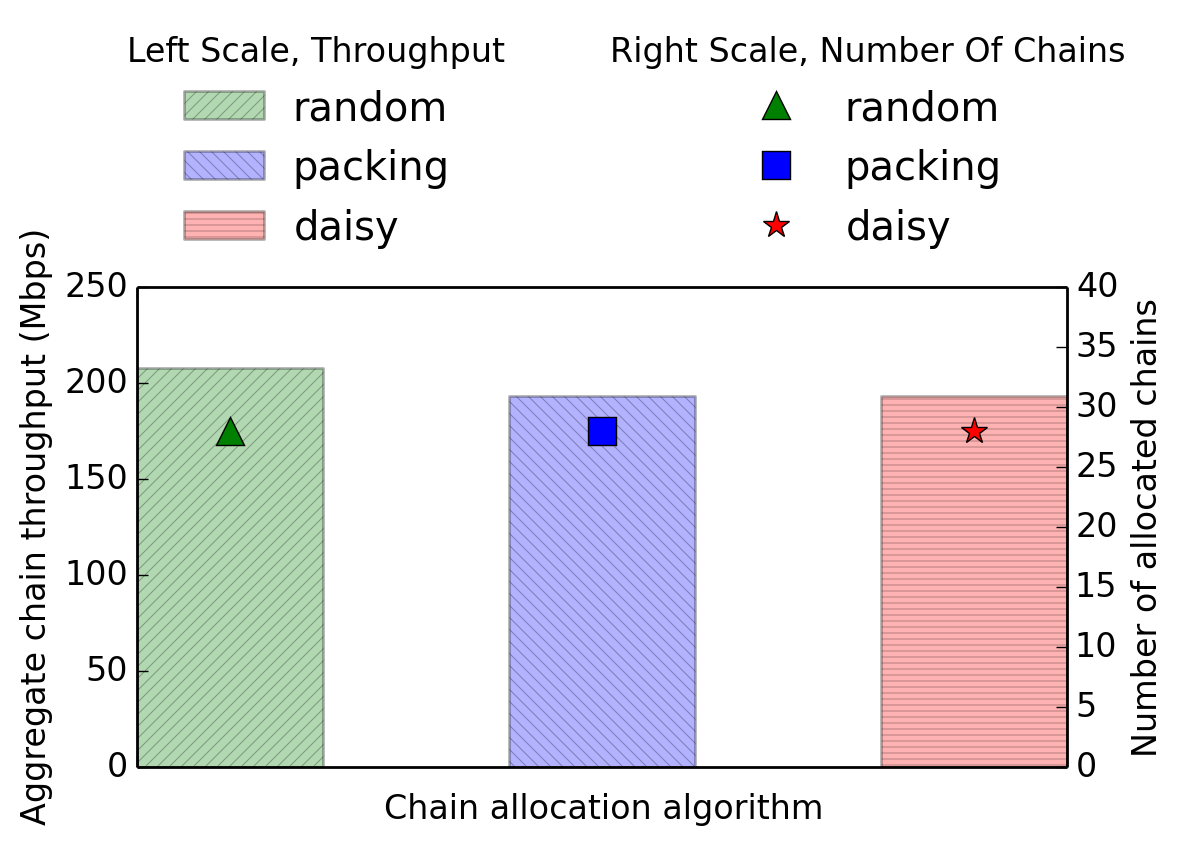
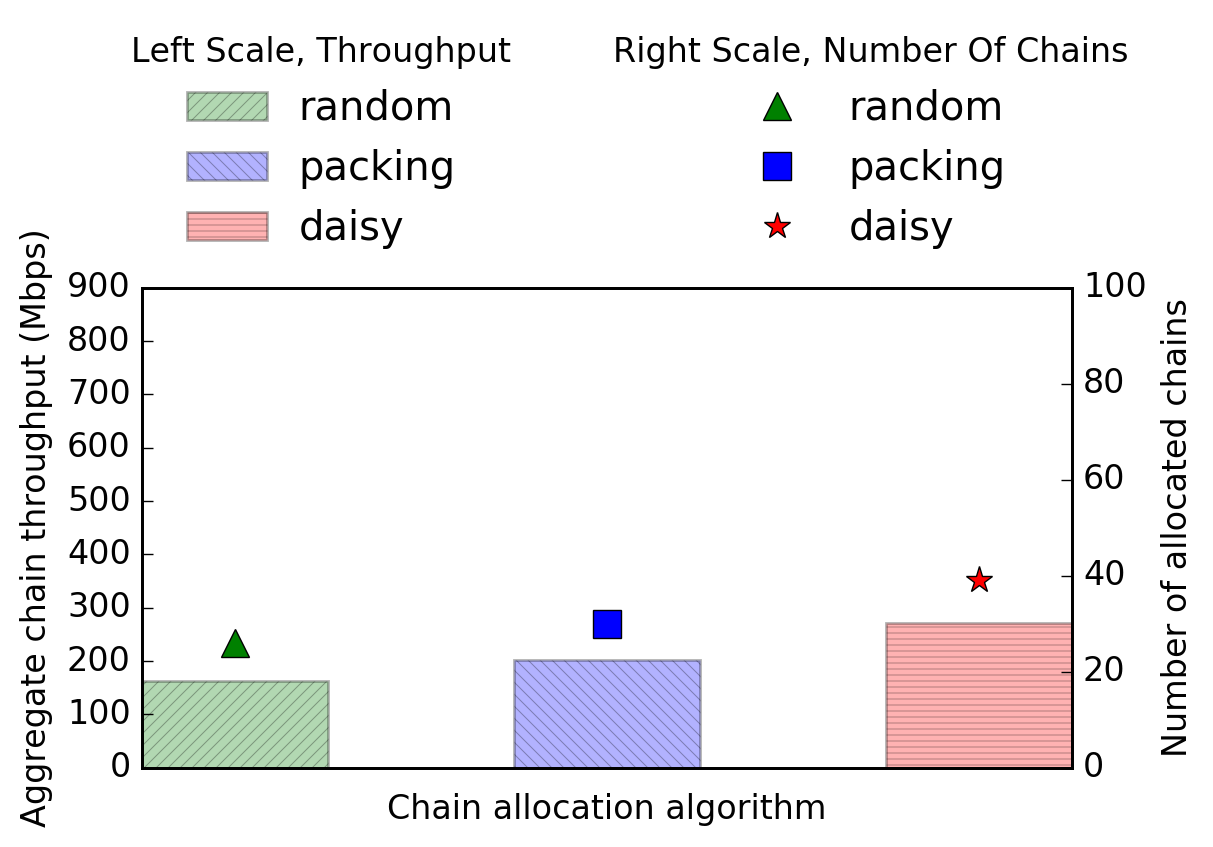
Update plots.

diff --git a/scenarios/experiments/plot.py b/scenarios/experiments/plot.py
@@ -53,28 +53,27 @@ def extract_dstat(fname, pos, omit_sec, duration):
     return bw
 
 
-
 def plot_upgrade():
     # amount of seconds to skip data collection, and duration of the experiment
     omit_sec, duration = 3, 60
     # for client we monitor TX traffic, which is the value on the 2nd position
     # of the CSV file.
     client_bw = extract_dstat('./results/upgrade-from-client.csv', 2, omit_sec,
-            duration)
+                              duration)
     print('client_bw = %s, len = %d' % (client_bw, len(client_bw)))
 
     # for all other VNFs we monitor RX traffic, which is the value on the 1st
     # position of the CSV file.
     ids1_bw = extract_dstat('./results/upgrade-from-ids1.csv', 1, omit_sec,
-            duration)
+                            duration)
     print('ids1_bw = %s, len = %d' % (ids1_bw, len(ids1_bw)))
 
     ids2_bw = extract_dstat('./results/upgrade-from-ids2.csv', 1, omit_sec,
-            duration)
+                            duration)
     print('ids2_bw = %s, len = %d' % (ids2_bw, len(ids2_bw)))
 
     vpn_bw = extract_dstat('./results/upgrade-from-vpn.csv', 1, omit_sec,
-            duration)
+                           duration)
     print('vpn_bw = %s, len = %d' % (vpn_bw, len(vpn_bw)))
 
     figure_name = 'results/upgrade.png'
@@ -104,17 +103,17 @@ def plot_scaleout():
     # for client we monitor TX traffic, which is the value on the 2nd position
     # of the CSV file.
     client_bw = extract_dstat('./results/scaleout-from-client.csv', 2, omit_sec,
-            duration)
+                              duration)
     print('client_bw = %s, len = %d' % (client_bw, len(client_bw)))
 
     # for all other VNFs we monitor RX traffic, which is the value on the 1st
     # position of the CSV file.
     ids1_bw = extract_dstat('./results/scaleout-from-ids1.csv', 2, omit_sec,
-            duration)
+                            duration)
     print('ids1_bw = %s, len = %d' % (ids1_bw, len(ids1_bw)))
 
     vpn_bw = extract_dstat('./results/scaleout-from-vpn.csv', 2, omit_sec,
-            duration)
+                           duration)
     print('vpn_bw = %s, len = %d' % (vpn_bw, len(vpn_bw)))
 
     figure_name = 'results/scaleout.png'
@@ -125,7 +124,7 @@ def plot_scaleout():
     axes = plt.gca()
     plt.xlabel('Time (s)')
     plt.ylabel('Bandwidth (Mbps)')
-    plt.ylim([0,10])
+    plt.ylim([0, 10])
     client = plt.plot(t, client_bw, 'r--', label='Client')
     ids1 = plt.plot(t, ids1_bw, 'g--', label='IDS1')
     vpn = plt.plot(t, vpn_bw, 'k--', label='VPN')
@@ -138,13 +137,13 @@ def plot_scaleout():
     plt.close(fig)
 
 
-def plot3bars(plot_file_name, 
-    random_bw, packing_bw, daisy_bw,
-    random_allocs, packing_allocs, daisy_allocs,
-    vdc_names, bw_range, allocs_range):
+def plot3bars(plot_file_name,
+              random_bw, packing_bw, daisy_bw,
+              random_allocs, packing_allocs, daisy_allocs,
+              vdc_names, bw_range, allocs_range):
 
     print('started plotting')
-    n_groups = 1 #len(random_bw)
+    n_groups = 1  # len(random_bw)
     fig, ax = plt.subplots(figsize=(6, 3))
 
     bar_width = 0.05
@@ -152,40 +151,40 @@ def plot3bars(plot_file_name,
 
     opacity = 0.3
 
-    random_rects = plt.bar(index, random_bw, 
-                            bar_width,
-                            alpha=opacity,
-                            color='g',
-                            hatch='//',
-                            label='random')
+    random_rects = plt.bar(index, random_bw,
+                           bar_width,
+                           alpha=opacity,
+                           color='g',
+                           hatch='//',
+                           label='random')
 
-    packing_rects = plt.bar(index + 2*bar_width, packing_bw, bar_width,
+    packing_rects = plt.bar(index + 2 * bar_width, packing_bw, bar_width,
                             alpha=opacity,
                             color='b',
                             hatch='\\\\',
                             label='packing')
 
-    daisy_rects = plt.bar(index + 4*bar_width, daisy_bw, 
-                            bar_width,
-                            alpha=opacity,
-                            color='r',
-                            hatch='--',
-                            label='daisy')
+    daisy_rects = plt.bar(index + 4 * bar_width, daisy_bw,
+                          bar_width,
+                          alpha=opacity,
+                          color='r',
+                          hatch='--',
+                          label='daisy')
 
     # # put numbers of top of the bars
     # for rect, label in zip(random_rects, random_bw):
     #         height = rect.get_height()
-    #         ax.text(rect.get_x() + rect.get_width()/2, height + 5, label, 
+    #         ax.text(rect.get_x() + rect.get_width()/2, height + 5, label,
     #                 ha='center', va='bottom')
 
     # for rect, label in zip(packing_rects, daisy_bw):
     #         height = rect.get_height()
-    #         ax.text(rect.get_x() + rect.get_width()/2, height + 5, label, 
+    #         ax.text(rect.get_x() + rect.get_width()/2, height + 5, label,
     #                 ha='center', va='bottom')
 
     # for rect, label in zip(daisy_rects, packing_bw):
     #         height = rect.get_height()
-    #         ax.text(rect.get_x() + rect.get_width()/2, height + 5, label, 
+    #         ax.text(rect.get_x() + rect.get_width()/2, height + 5, label,
     #                 ha='center', va='bottom')
 
     # put final metadata and plot
@@ -195,28 +194,28 @@ def plot3bars(plot_file_name,
     plt.yticks(allocs_range)
 
     plt.xlabel('Chain allocation algorithm')
-    plt.xticks(index, []) #vdc_names)
+    plt.xticks(index, [])  # vdc_names)
     #plt.xticks(index + 0.5*bar_width, vdc_names)
 
     # plot right-vertical axis for execution time
     ax2 = ax.twinx()
     ax2.set_ylim(bw_range)
 
-    ax2.plot(index+bar_width/2, random_allocs, 'g^', markersize=10,
-            label='random')
-    ax2.plot(index+5*bar_width/2, packing_allocs, 'bs', markersize=10, 
-            label='packing')
-    ax2.plot(index+9*bar_width/2, daisy_allocs, 'r*', markersize=10,
-            label='daisy')
+    ax2.plot(index + bar_width / 2, random_allocs, 'g^', markersize=10,
+             label='random')
+    ax2.plot(index + 5 * bar_width / 2, packing_allocs, 'bs', markersize=10,
+             label='packing')
+    ax2.plot(index + 9 * bar_width / 2, daisy_allocs, 'r*', markersize=10,
+             label='daisy')
 
     ax2.set_ylabel('Number of allocated chains')
 
     # put legends
     ax.legend(loc='upper left', bbox_to_anchor=(-0.05, 1.6), numpoints=1, ncol=1,
-        title='Left Scale, Throughput', frameon=False)    
-    ax2.legend(loc='upper right', bbox_to_anchor=(1.1, 1.6), 
-        numpoints=1, ncol=1, frameon=False,
-        title='Right Scale, Number Of Chains')
+              title='Left Scale, Throughput', frameon=False)
+    ax2.legend(loc='upper right', bbox_to_anchor=(1.1, 1.6),
+               numpoints=1, ncol=1, frameon=False,
+               title='Right Scale, Number Of Chains')
 
     plt.draw()
     final_figure = plt.gcf()
@@ -225,19 +224,22 @@ def plot3bars(plot_file_name,
     plt.close(fig)
 
 
-def plot_allocate():
+def plot_allocate100():
     # amount of seconds to skip data collection, and duration of the experiment
     omit_sec, duration = 10, 60
     # list of average bandwidth amount each chain gets
     chain_bw_aggr_list = []
     total_bw = {}
     total_allocs = {}
-    algo_bw_files = {'random': [], 'packing': [], 'daisy': []}
+    # algo_bw_files = {'random': [], 'packing': [], 'daisy': []}
+    algo_bw_files = {'random100': [], 'packing100': [], 'daisy100': []}
+
     base_path = './results/allocate'
 
-    #algos = ['random', 'packing', 'daisy']
-    algos = ['random', 'packing']
-    #algos = ['random']
+    # algos = ['random', 'packing', 'daisy']
+    # algos = ['random', 'packing']
+    # algos = ['random']
+    algos = ['random100', 'packing100', 'daisy100']
 
     for algo in algos:
         folder_name = '%s/%s' % (base_path, algo)
@@ -249,7 +251,7 @@ def plot_allocate():
                 print('WARNING: non .csv file %s in %s' % (fname, folder_name))
         total_allocs[algo] = len(algo_bw_files[algo])
 
-    #print(algo_bw_files)
+    # print(algo_bw_files)
     print('total_allocs = %s' % total_allocs)
 
     # for allocate we monitor Rx traffic, which is the value on the 1st position
@@ -262,34 +264,101 @@ def plot_allocate():
                 print('WARNING: len(bandwidth)=0 for %s' % infile)
                 continue
             chain_bw_aggr_list.append(sum(bandwidth) / len(bandwidth))
-            #break
+            # break
         total_bw[algo] = sum(chain_bw_aggr_list)
         chain_bw_aggr_list[:] = []
-        #break
+        # break
+    print('total_bw = %s' % total_bw)
+
+    plot_file_name = 'results/allocate100.png'
+
+    random_bw = total_bw['random100']
+    packing_bw = total_bw['packing100']
+    daisy_bw = total_bw['daisy100']  # daisy']
+
+    random_allocs = total_allocs['random100']
+    packing_allocs = total_allocs['packing100']
+    daisy_allocs = total_allocs['daisy100']  # daisy']
+
+    vdc_names = algos
+    bw_range = [0, 100]
+    allocs_range = np.arange(0, 1000, 100)
+
+    plot3bars(plot_file_name,
+              random_bw, packing_bw, daisy_bw,
+              random_allocs, packing_allocs, daisy_allocs,
+              ['random', 'packing', 'daisy'], bw_range, allocs_range)
+    # vdc_names, bw_range, allocs_range)
+
+
+def plot_allocate():
+    # amount of seconds to skip data collection, and duration of the experiment
+    omit_sec, duration = 10, 60
+    # list of average bandwidth amount each chain gets
+    chain_bw_aggr_list = []
+    total_bw = {}
+    total_allocs = {}
+    # algo_bw_files = {'random': [], 'packing': [], 'daisy': []}
+    algo_bw_files = {'random': [], 'packing': [], 'daisy': []}
+
+    base_path = './results/allocate'
+
+    # algos = ['random', 'packing', 'daisy']
+    # algos = ['random', 'packing']
+    # algos = ['random']
+    algos = ['random', 'packing', 'daisy']
+
+    for algo in algos:
+        folder_name = '%s/%s' % (base_path, algo)
+        fnames = os.listdir(folder_name)
+        for fname in fnames:
+            if fname.endswith('.csv'):
+                algo_bw_files[algo].append(fname)
+            else:
+                print('WARNING: non .csv file %s in %s' % (fname, folder_name))
+        total_allocs[algo] = len(algo_bw_files[algo])
+
+    # print(algo_bw_files)
+    print('total_allocs = %s' % total_allocs)
+
+    # for allocate we monitor Rx traffic, which is the value on the 1st position
+    # of the CSV file.
+    for algo in algos:
+        for fname in algo_bw_files[algo]:
+            infile = '%s/%s/%s' % (base_path, algo, fname)
+            bandwidth = extract_dstat(infile, 1, omit_sec, duration)
+            if len(bandwidth) == 0:
+                print('WARNING: len(bandwidth)=0 for %s' % infile)
+                continue
+            chain_bw_aggr_list.append(sum(bandwidth) / len(bandwidth))
+            # break
+        total_bw[algo] = sum(chain_bw_aggr_list)
+        chain_bw_aggr_list[:] = []
+        # break
     print('total_bw = %s' % total_bw)
 
     plot_file_name = 'results/allocate.png'
 
     random_bw = total_bw['random']
     packing_bw = total_bw['packing']
-    daisy_bw = total_bw['packing'] # daisy']
+    daisy_bw = total_bw['daisy']  # daisy']
 
     random_allocs = total_allocs['random']
     packing_allocs = total_allocs['packing']
-    daisy_allocs = total_allocs['packing'] # daisy']
+    daisy_allocs = total_allocs['daisy']  # daisy']
 
     vdc_names = algos
-    bw_range = [0, 40]
-    allocs_range = np.arange(0, 251, 50)
+    bw_range = [0, 100]
+    allocs_range = np.arange(0, 1000, 100)
 
     plot3bars(plot_file_name,
-            random_bw, packing_bw, daisy_bw,
-            random_allocs, packing_allocs, daisy_allocs,
-            ['random', 'packing', 'daisy'], bw_range, allocs_range)
-            #vdc_names, bw_range, allocs_range)
- 
+              random_bw, packing_bw, daisy_bw,
+              random_allocs, packing_allocs, daisy_allocs,
+              ['random', 'packing', 'daisy'], bw_range, allocs_range)
+    # vdc_names, bw_range, allocs_range)
 
 if __name__ == '__main__':
-    #plot_upgrade()
-    #plot_scaleout()
+    # plot_upgrade()
+    # plot_scaleout()
     plot_allocate()
+    plot_allocate100()

diff --git a/scenarios/experiments/e2-allocation.py b/scenarios/experiments/e2-allocation.py
@@ -647,5 +647,4 @@ if __name__ == '__main__':
     net.stop()
 
     cleanup()
-
     os.system("sudo ../clean-stale.sh")
